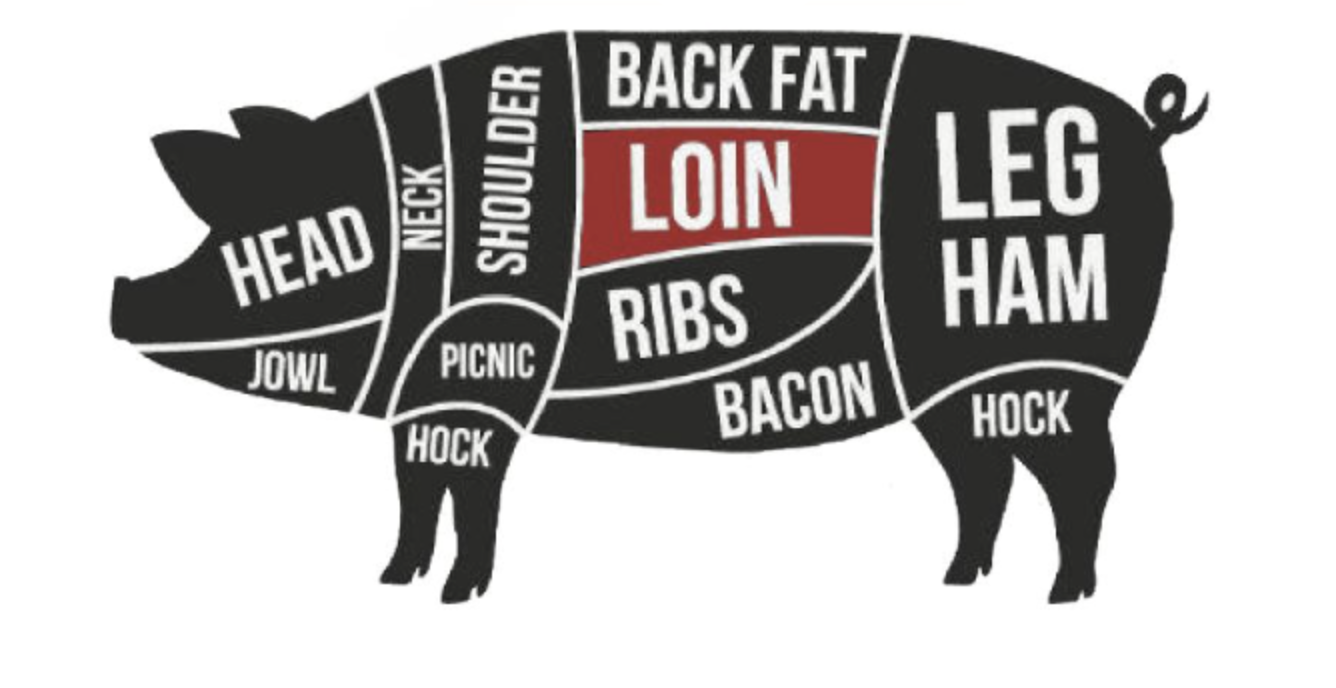
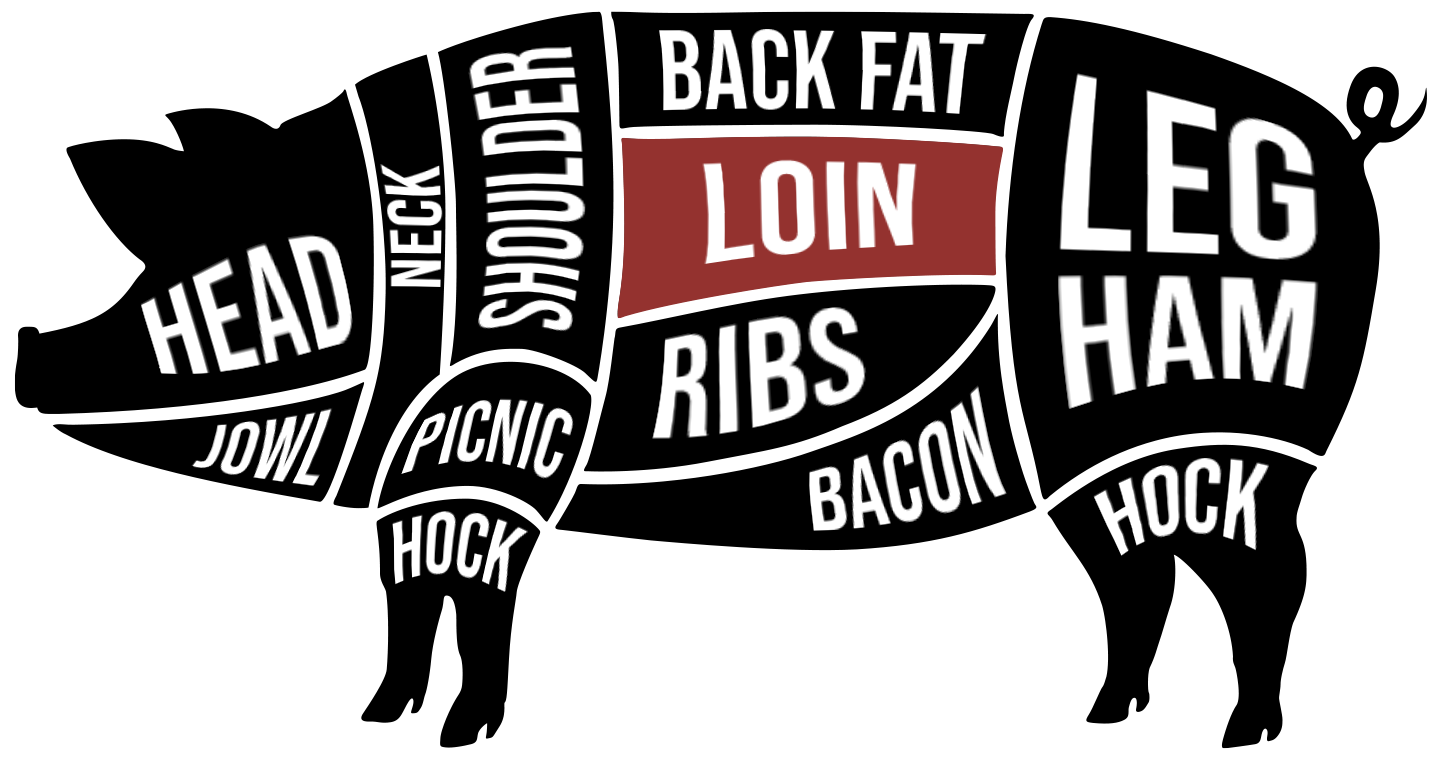
[1800963] fixed circular graph overlaps

diff --git a/src/packages/blocks/analytics/src/AnalyticsController.tsx b/src/packages/blocks/analytics/src/AnalyticsController.tsx
@@ -614,46 +614,47 @@ export default class AnalyticsController extends BlockComponent<Props, S, SS> {
       [AnimalParts.chicken_Breast]: {
         isShow: true,
         x: 55,
-        y:-90,
+        y: 10,
         lineHeight: 80,
         sold: 100,
         remaining: 73
       },
       [AnimalParts.chicken_Back]: {
         isShow: true,
-        x: 80,
-        y:-80,
-        lineHeight: 80,
+        x: 85,
+        y: 25,
+        lineHeight: 40,
         sold: 90,
         remaining: 120
       },
       [AnimalParts.chicken_leg]: {
         isShow: true,
-        x: 115,
-        y:-50,
-        lineHeight: 110,
+        x: 105,
+        y: 40,
+        lineHeight: 100,
         sold: 90,
         remaining: 30
       },
       [AnimalParts.chicken_Neck]: {
         isShow: true,
-        x: 40,
-        y:-90,
+        x: 50,
+        y: 5,
+        lineHeight:50,
         sold: 28,
         remaining: 73
       },
       [AnimalParts.chicken_Thigh]: {
         isShow: true,
         x: 130,
-        y:-50,
-        lineHeight: 100,
+        y: 30,
+        lineHeight: 80,
         sold: 90,
         remaining: 100
       },
       [AnimalParts.chicken_tail]: {
         isShow: true,
-        x: 200,
-        y:-50,
+        x: 180,
+        y:25,
         lineHeight: 30,
         sold: 150,
         remaining: 100
@@ -661,7 +662,7 @@ export default class AnalyticsController extends BlockComponent<Props, S, SS> {
       [AnimalParts.chicken_Wing]: {
         isShow: true,
         x: 115,
-        y:-40,
+        y: 40,
         lineHeight: 48,
         sold: 90,
         remaining: 100
@@ -673,67 +674,67 @@ export default class AnalyticsController extends BlockComponent<Props, S, SS> {
       },
       [AnimalParts.pigHead]: {
         isShow: true,
-        x: 30,
-        y: -35,
+        x: 20,
+        y: 10,
       },
       [AnimalParts.pigJowl]: {
         isShow: true,
-        x: 40,
-        y: -35,
+        x: 30,
+        y: 15,
         lineHeight: 65
       },
       [AnimalParts.pigNeck]: {
         isShow: true,
-        x: 55,
-        y: -50,
+        x: 45,
+        y: 10,
         lineHeight: 30,
       },
       [AnimalParts.pigShoulder]: {
         isShow: true,
-        x: 80,
-        y: -50,
+        x: 60,
+        y: 10,
         lineHeight: 22,
       },
       [AnimalParts.pigPicnic]: {
         isShow: true,
-        x: 85,
-        y: -50,
+        x: 65,
+        y: 10,
         lineHeight: 80,
       },
       [AnimalParts.pigHock]: {
         isShow: true,
-        x: 190,
-        y: -50,
-        lineHeight: 100,
+        x: 180,
+        y: 10,
+        lineHeight: 60,
       },
       [AnimalParts.pigBacon]: {
         isShow: true,
-        x: 140,
-        y: -50,
+        x: 130,
+        y: 10,
         lineHeight: 80,
       },
       [AnimalParts.pigLegham]: {
         isShow: true,
-        x: 180,
-        y: -50,
+        x: 170,
+        y: 10,
         lineHeight: 20,
       },
       [AnimalParts.pigRibs]: {
         isShow: true,
-        x: 130,
-        y: -50,
+        x: 120,
+        y: 10,
         lineHeight: 70,
       },
       [AnimalParts.pigLoin]: {
         isShow: true,
-        x: 120,
-        y: -50,
+        x: 110,
+        y: 10,
         lineHeight: 50,
       },
       [AnimalParts.pigBackFat]: {
         isShow: true,
-        x: 120,
-        y: -50,
+        x: 110,
+        y: 10,
         lineHeight: 15,
       },
     }

diff --git a/src/packages/blocks/analytics/src/AnimalPig.tsx b/src/packages/blocks/analytics/src/AnimalPig.tsx
@@ -9,7 +9,7 @@ import {
   Text
   // Customizable Area End
 } from "react-native";
-import { pig, pigHead, pigHock, pigJowl, pigLeg, pigLoin, pigNeck, pigRibs, pigShoulder, pigbacon, pigpicnis } from "./assets";
+import { pig, pigBackfat, pigHead, pigHock, pigJowl, pigLeg, pigLoin, pigNeck, pigRibs, pigShoulder, pigbacon, pigpicnis } from "./assets";
 
 import AnalyticsController, {AnimalParts, Props} from "./AnalyticsController";
 import AnimalChart from "../../../components/src/AnimalChart";
@@ -112,7 +112,7 @@ export default class AnimalPig extends AnalyticsController {
                 <Image
                   style={styles.animalImg}
                   resizeMode="contain"
-                  source={pig}
+                  source={pigBackfat}
                 />
               }
               <TouchableOpacity onPress={() => { this.onPigClick(AnimalParts.pigHead) }} style={styles.clickOnPigHead} testID="pigHead" />
@@ -156,7 +156,7 @@ const styles = StyleSheet.create({
   animalImgContainer: {
     backgroundColor: "white",
     paddingHorizontal: 15,
-    paddingVertical: 15,
+    paddingVertical: 75,
     borderRadius: 10,
     marginBottom: 15,
     marginTop: 40

diff --git a/src/packages/blocks/analytics/src/assets.tsx b/src/packages/blocks/analytics/src/assets.tsx
@@ -16,16 +16,19 @@ export const chicken_Breast = require('../assets/chicken_Breast.png');
 export const chicken_leg = require('../assets/chicken_leg.png');
 export const chicken_Thigh = require('../assets/chicken_Thigh.png');
 export const chicken_Wing = require('../assets/chicken_Wing.png');
+export const chicken_Tail = require('../assets/chicken_Tail.png');
 export const pigbacon = require('../assets/pigbacon.png');
 export const pigHead = require('../assets/pigHead.png');
 export const pigHock = require('../assets/pigHock.png');
+export const pigHock1 = require('../assets/pigHock1.png');
 export const pigJowl = require('../assets/pigJowl.png');
-export const pigLeg = require('../assets/pigLeg.png');
+export const pigLeg = require('../assets/pigLegham.png');
 export const pigLoin = require('../assets/pigLoin.png');
 export const pigNeck = require('../assets/pigNeck.png');
 export const pigpicnis = require('../assets/pigPicnics.png');
 export const pigRibs = require('../assets/pigRibs.png');
 export const pigShoulder = require('../assets/pigShoulder.png');
+export const pigBackfat = require('../assets/pigBackfat.png');
 export const pig = require('../assets/pig.png');
 
 

diff --git a/src/packages/blocks/analytics/src/AnimalChicken.tsx b/src/packages/blocks/analytics/src/AnimalChicken.tsx
@@ -136,7 +136,7 @@ const styles = StyleSheet.create({
   animalImgContainer: {
     backgroundColor: "white",
     paddingHorizontal: 15,
-    paddingVertical: 15,
+    paddingVertical: 90,
     borderRadius: 10,
     marginBottom: 15,
     marginTop: 40
@@ -167,12 +167,13 @@ const styles = StyleSheet.create({
   bottomContainer: {
     flexDirection: 'row',
     justifyContent: 'space-around',
-    alignItems: 'center'
+    alignItems: 'center',
+    marginTop:20
   },
   rowContainer: {
     flexDirection: 'row',
     alignItems: 'center',
-    paddingRight: 20
+    paddingRight: 20,
   },
   redDot: {
     width: 10,
